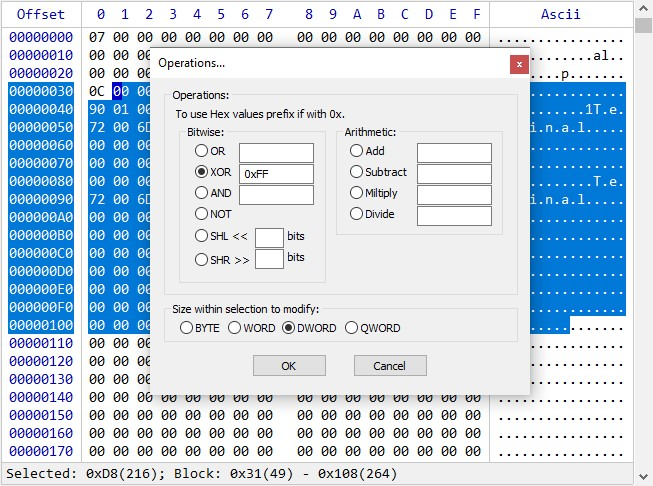
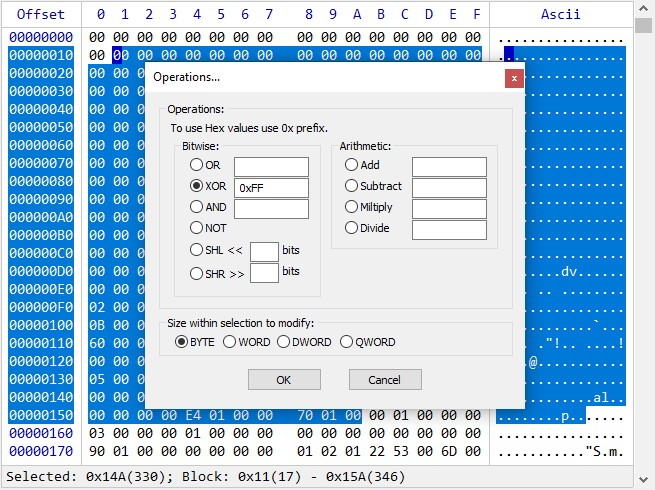
[Added] Mark selection Start/End.

diff --git a/HexCtrl/src/CHexCtrl.cpp b/HexCtrl/src/CHexCtrl.cpp
@@ -90,6 +90,7 @@ BEGIN_MESSAGE_MAP(CHexCtrl, CWnd)
 	ON_WM_CHAR()
 	ON_WM_GETDLGCODE()
 	ON_WM_LBUTTONDBLCLK()
+	ON_WM_SYSKEYDOWN()
 END_MESSAGE_MAP()
 
 //CWinApp object vital for manual MFC, and for in-.dll work,
@@ -149,6 +150,7 @@ CHexCtrl::CHexCtrl()
 	m_pDlgOpers->Create(IDD_HEXCTRL_OPERATIONS, this);
 	m_pDlgFillWith->Create(IDD_HEXCTRL_FILLWITHDATA, this);
 	m_pBookmarks->Attach(this);
+	m_pSelect->Attach(this);
 }
 
 CHexCtrl::~CHexCtrl()
@@ -854,7 +856,15 @@ BOOL CHexCtrl::OnCommand(WPARAM wParam, LPARAM lParam)
 	case IDM_HEXCTRL_MODIFY_FILLWITHDATA:
 		m_pDlgFillWith->ShowWindow(SW_SHOW);
 		break;
-	case IDM_HEXCTRL_MAIN_SELECTALL:
+	case IDM_HEXCTRL_SELECTION_MARKSTART:
+		m_pSelect->SetSelectionStart(m_ullRMouseChunk != 0xFFFFFFFFFFFFFFFFull ? m_ullRMouseChunk : GetCursorPos());
+		m_ullRMouseChunk = 0xFFFFFFFFFFFFFFFFull;
+		break;
+	case IDM_HEXCTRL_SELECTION_MARKEND:
+		m_pSelect->SetSelectionEnd(m_ullRMouseChunk != 0xFFFFFFFFFFFFFFFFull ? m_ullRMouseChunk : GetCursorPos());
+		m_ullRMouseChunk = 0xFFFFFFFFFFFFFFFFull;
+		break;
+	case IDM_HEXCTRL_SELECTION_SELECTALL:
 		SelectAll();
 		break;
 	case IDM_HEXCTRL_APPEARANCE_FONTINCREASE:
@@ -915,7 +925,11 @@ void CHexCtrl::OnInitMenuPopup(CMenu* pPopupMenu, UINT /*nIndex*/, BOOL /*bSysMe
 		m_menuMain.EnableMenuItem(IDM_HEXCTRL_MODIFY_FILLZEROS, (m_fMutable ? uStatus : MF_GRAYED) | MF_BYCOMMAND);
 		m_menuMain.EnableMenuItem(IDM_HEXCTRL_MODIFY_FILLWITHDATA, (m_fMutable ? uStatus : MF_GRAYED) | MF_BYCOMMAND);
 		m_menuMain.EnableMenuItem(IDM_HEXCTRL_MODIFY_OPERATIONS, (m_fMutable ? uStatus : MF_GRAYED) | MF_BYCOMMAND);
-		m_menuMain.EnableMenuItem(IDM_HEXCTRL_MAIN_SELECTALL, (fDataSet ? MF_ENABLED : MF_GRAYED) | MF_BYCOMMAND);
+		
+		//Selection
+		m_menuMain.EnableMenuItem(IDM_HEXCTRL_SELECTION_MARKSTART, (fDataSet ? MF_ENABLED : MF_GRAYED) | MF_BYCOMMAND);
+		m_menuMain.EnableMenuItem(IDM_HEXCTRL_SELECTION_MARKEND, (fDataSet ? MF_ENABLED : MF_GRAYED) | MF_BYCOMMAND);
+		m_menuMain.EnableMenuItem(IDM_HEXCTRL_SELECTION_SELECTALL, (fDataSet ? MF_ENABLED : MF_GRAYED) | MF_BYCOMMAND);
 
 		//Bookmarks
 		bool fBookmarks = m_pBookmarks->HasBookmarks();
@@ -990,6 +1004,22 @@ void CHexCtrl::OnKeyDown(UINT nChar, UINT /*nRepCnt*/, UINT /*nFlags*/)
 	}
 }
 
+void CHexCtrl::OnSysKeyDown(UINT nChar, UINT /*nRepCnt*/, UINT /*nFlags*/)
+{
+	WPARAM wParam { };
+	switch (nChar)
+	{
+	case '1':
+		wParam = IDM_HEXCTRL_SELECTION_MARKSTART;
+		break;
+	case '2':
+		wParam = IDM_HEXCTRL_SELECTION_MARKEND;
+		break;
+	}
+	if (wParam)
+		SendMessageW(WM_COMMAND, wParam, 0);
+}
+
 void CHexCtrl::OnKeyDownCtrl(UINT nChar)
 {
 	//TranslateAccelerator doesn't work within .dll without client's code modification.
@@ -1017,7 +1047,7 @@ void CHexCtrl::OnKeyDownCtrl(UINT nChar)
 		wParam = IDM_HEXCTRL_MODIFY_OPERATIONS;
 		break;
 	case 'A':
-		wParam = IDM_HEXCTRL_MAIN_SELECTALL;
+		wParam = IDM_HEXCTRL_SELECTION_SELECTALL;
 		break;
 	case 'Z':
 		wParam = IDM_HEXCTRL_MAIN_UNDO;

diff --git a/HexCtrl/src/CHexSelect.cpp b/HexCtrl/src/CHexSelect.cpp
@@ -13,6 +13,16 @@
 using namespace HEXCTRL;
 using namespace HEXCTRL::INTERNAL;
 
+void CHexSelect::Attach(CHexCtrl* p)
+{
+	m_pHex = p;
+}
+
+CHexCtrl* CHexSelect::GetHex()
+{
+	return m_pHex;
+}
+
 bool CHexSelect::HasSelection()const
 {
 	return !m_vecSelect.empty();
@@ -27,6 +37,40 @@ bool CHexSelect::HitTest(ULONGLONG ullIndex)const
 void CHexSelect::SetSelection(const std::vector<HEXSPANSTRUCT>& vecSelect)
 {
 	m_vecSelect = vecSelect;
+}
+
+void CHexSelect::SetSelectionStart(ULONGLONG ullOffset)
+{
+	m_ullMarkSelStart = ullOffset;
+	if (m_ullMarkSelEnd == 0xFFFFFFFFFFFFFFFFULL || m_ullMarkSelStart > m_ullMarkSelEnd)
+		return;
+	else
+	{
+		ULONGLONG ullSize = m_ullMarkSelEnd - m_ullMarkSelStart + 1;
+		m_vecSelect.clear();
+		m_vecSelect.emplace_back(HEXSPANSTRUCT { m_ullMarkSelStart, ullSize });
+
+		CHexCtrl* pHex = GetHex();
+		if (pHex)
+			pHex->UpdateInfoText();
+	}
+}
+
+void CHexSelect::SetSelectionEnd(ULONGLONG ullOffset)
+{
+	m_ullMarkSelEnd = ullOffset;
+	if (m_ullMarkSelStart == 0xFFFFFFFFFFFFFFFFULL || m_ullMarkSelEnd < m_ullMarkSelStart)
+		return;
+	else
+	{
+		ULONGLONG ullSize = m_ullMarkSelEnd - m_ullMarkSelStart + 1;
+		m_vecSelect.clear();
+		m_vecSelect.emplace_back(HEXSPANSTRUCT { m_ullMarkSelStart, ullSize });
+
+		CHexCtrl* pHex = GetHex();
+		if (pHex)
+			pHex->UpdateInfoText();
+	}
 }
 
 ULONGLONG CHexSelect::GetSelectionSize()const
@@ -89,4 +133,6 @@ std::vector<HEXSPANSTRUCT>& CHexSelect::GetVector()
 void CHexSelect::ClearAll()
 {
 	m_vecSelect.clear();
+	m_ullMarkSelStart = 0xFFFFFFFFFFFFFFFFULL;
+	m_ullMarkSelEnd = 0xFFFFFFFFFFFFFFFFULL;
 }

diff --git a/HexCtrl/src/CHexCtrl.h b/HexCtrl/src/CHexCtrl.h
@@ -75,12 +75,13 @@ namespace HEXCTRL::INTERNAL
 		afx_msg void OnVScroll(UINT nSBCode, UINT nPos, CScrollBar* pScrollBar);
 		afx_msg void OnHScroll(UINT nSBCode, UINT nPos, CScrollBar* pScrollBar);
 		afx_msg void OnKeyDown(UINT nChar, UINT nRepCnt, UINT nFlags);
+		afx_msg void OnSysKeyDown(UINT nChar, UINT nRepCnt, UINT nFlags);
+		void OnKeyDownCtrl(UINT nChar);  //Key pressed with the Ctrl.
 		void OnKeyDownShift(UINT nChar); //Key pressed with the Shift.
 		void OnKeyDownShiftLeft();       //Left Key pressed with the Shift.
 		void OnKeyDownShiftRight();      //Right Key pressed with the Shift.
 		void OnKeyDownShiftUp();         //Up Key pressed with the Shift.
 		void OnKeyDownShiftDown();       //Down Key pressed with the Shift.
-		void OnKeyDownCtrl(UINT nChar);  //Key pressed with the Ctrl.
 		afx_msg void OnChar(UINT nChar, UINT nRepCnt, UINT nFlags);
 		afx_msg UINT OnGetDlgCode();     //To properly work in dialogs.
 		afx_msg BOOL OnEraseBkgnd(CDC* pDC);
@@ -196,5 +197,5 @@ namespace HEXCTRL::INTERNAL
 		bool m_fLMousePressed { false };      //Is left mouse button pressed.
 		bool m_fSelectionBlock { false };     //Is selection as block (with Alt) or classic.
 		bool m_fOffsetAsHex { true };         //Print offset numbers as Hex or as Decimals.
-	};
+};
 }

diff --git a/HexCtrl/src/CHexSelect.h b/HexCtrl/src/CHexSelect.h
@@ -15,17 +15,24 @@ namespace HEXCTRL::INTERNAL
 	class CHexSelect
 	{
 	public:
+		void Attach(CHexCtrl* p);
+		CHexCtrl* GetHex();
 		bool HasSelection()const;
 		bool HitTest(ULONGLONG ullIndex)const;
 		void SetSelection(const std::vector<HEXSPANSTRUCT>& vecSelect);
+		void SetSelectionStart(ULONGLONG ullOffset);
+		void SetSelectionEnd(ULONGLONG ullOffset);
 		ULONGLONG GetSelectionSize()const;
 		ULONGLONG GetSelectionStart()const;
 		ULONGLONG GetSelectionEnd()const;
 		ULONGLONG GetOffsetByIndex(ULONGLONG ullIndex)const;  //Retrieves selection offset by index [0...selectionSize)
 		DWORD GetLineLength()const;  //Length of the selected line. Used in block selection (with Alt).
-		std::vector<HEXSPANSTRUCT>& GetVector();
+		auto GetVector()->std::vector<HEXSPANSTRUCT>&;
 		void ClearAll();
 	private:
+		CHexCtrl* m_pHex { };
 		std::vector<HEXSPANSTRUCT> m_vecSelect { };
+		ULONGLONG m_ullMarkSelStart { 0xFFFFFFFFFFFFFFFFULL };  //For SetSelectionStart().
+		ULONGLONG m_ullMarkSelEnd { 0xFFFFFFFFFFFFFFFFULL };    //For SetSelectionEnd().
 	};
 }

diff --git a/HexCtrl/res/HexCtrlRes.h b/HexCtrl/res/HexCtrlRes.h
@@ -55,7 +55,6 @@
 #define IDM_HEXCTRL_MAIN_SEARCH         32769
 #define IDM_HEXCTRL_MAIN_UNDO           32770
 #define IDM_HEXCTRL_MAIN_REDO           32771
-#define IDM_HEXCTRL_MAIN_SELECTALL      32772
 #define IDM_HEXCTRL_MAIN_ABOUT          32773
 #define IDM_HEXCTRL_SHOWAS_BYTE         32774
 #define IDM_HEXCTRL_SHOWAS_WORD         32775
@@ -82,13 +81,17 @@
 #define IDM_HEXCTRL_APPEARANCE_CAPACITYDECREASE 32796
 #define IDM_HEXCTRL_CLIPBOARD_COPYCARRAY 32797
 #define IDM_HEXCTRL_CLIPBOARD_COPYGREPHEX 32798
+#define IDM_HEXCTRL_SELECTION_MARKSTART 32799
+#define IDM_HEXCTRL_SELECTION_MARKEND   32800
+#define IDM_HEXCTRL_SELECTION_SELECTALL 32801
+
 
 // Next default values for new objects
 // 
 #ifdef APSTUDIO_INVOKED
 #ifndef APSTUDIO_READONLY_SYMBOLS
 #define _APS_NEXT_RESOURCE_VALUE        9237
-#define _APS_NEXT_COMMAND_VALUE         32799
+#define _APS_NEXT_COMMAND_VALUE         32802
 #define _APS_NEXT_CONTROL_VALUE         9243
 #define _APS_NEXT_SYMED_VALUE           9333
 #endif
